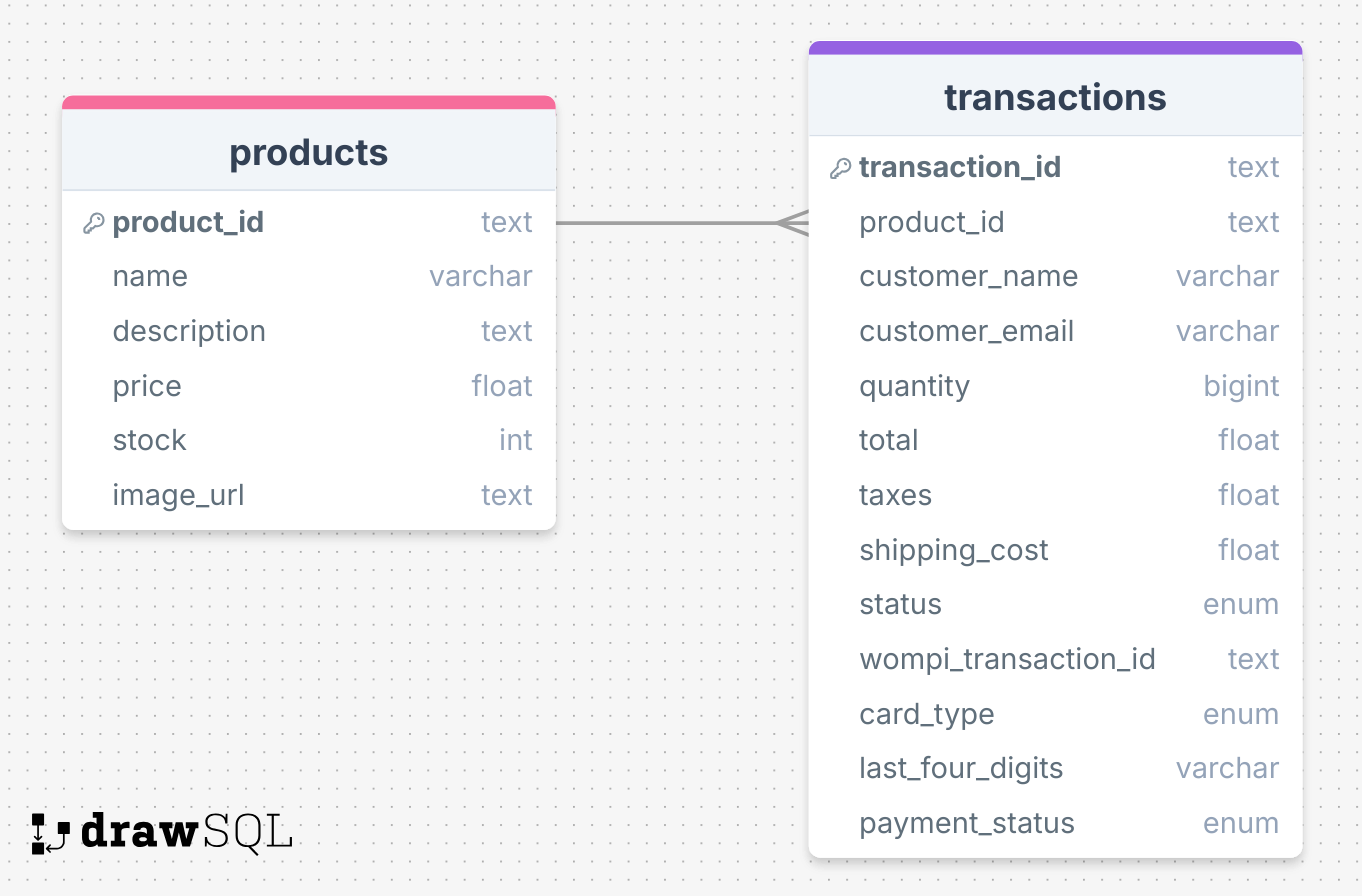
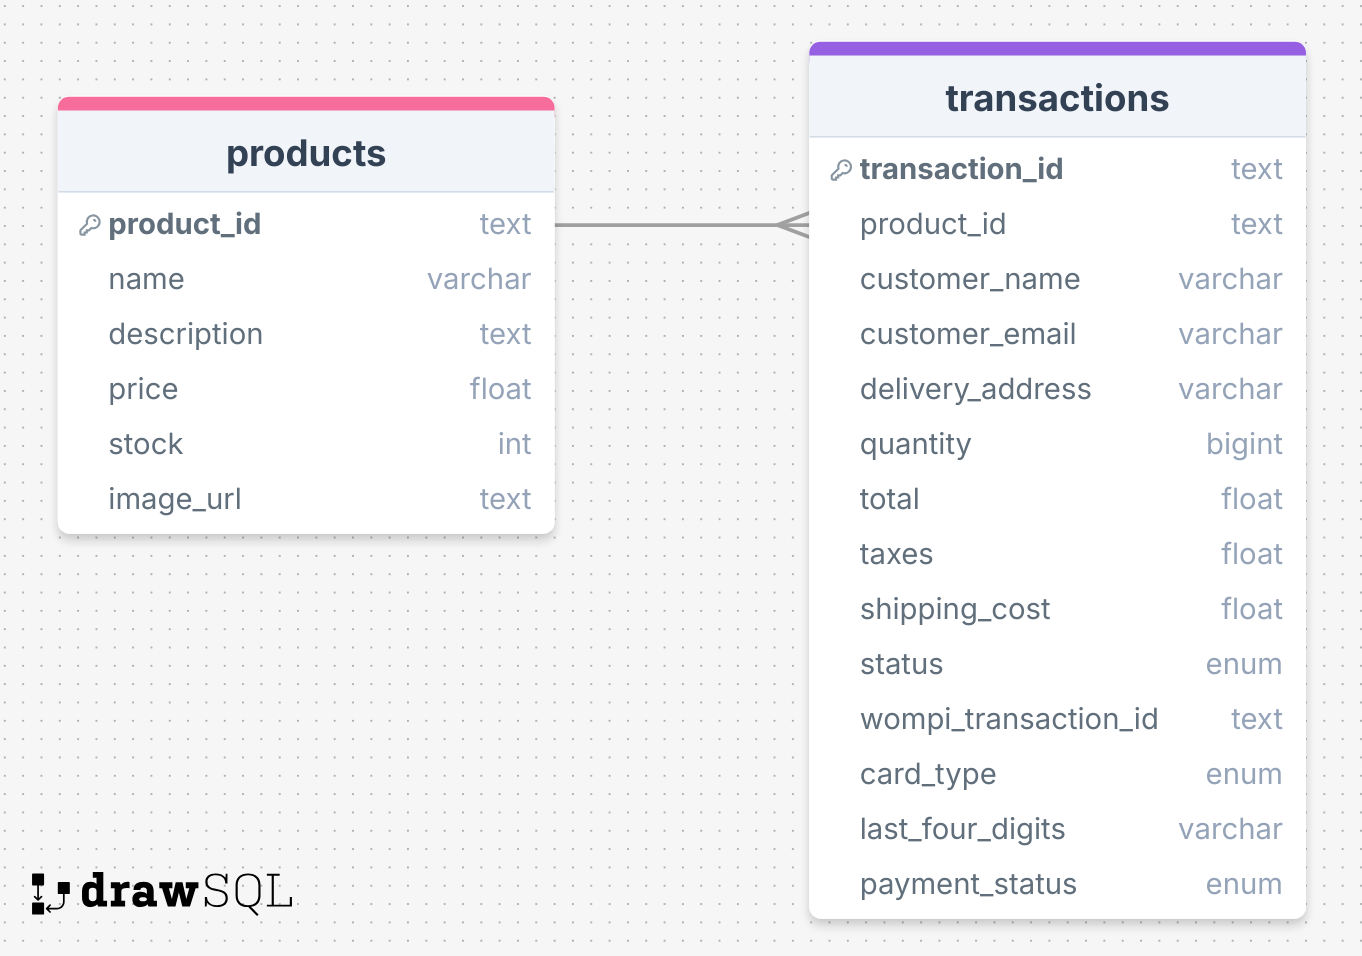
docs: delivery address adition

diff --git a/docs/Database.md b/docs/Database.md
@@ -1,4 +1,4 @@
-#### **Entities**
+### **Entities**
 1. **Products**
     - **Reason for inclusion:** Displays products in the store and tracks inventory after a sale.
     - **Attributes:**
@@ -8,13 +8,14 @@
         - `Price` (Decimal): Price of the product.
         - `Stock` (Integer): Available quantity of the product.
         - `Image_URL` (Text): URL for the product image.
-2. **Transaction**
+2. **Transactions**
     - **Reason for inclusion:** Represents a customer's purchase of a product and integrates with Wompi for payment processing.
     - **Attributes:**
         - `ID` (UUID, Primary Key): Unique identifier for each transaction.
         - `Product_ID` (UUID, Foreign Key -> Products.ID): Reference to the purchased product.
         - `Customer_Name` (String): Full name of the customer making the transaction.
         - `Customer_Email` (String): Email address of the customer making the transaction.
+        - `Delivery_Address` (String): Address where the product will be delivered.
         - `Quantity` (Integer): Number of units of the product being purchased.
         - `Total` (Decimal): Total transaction amount.
         - `Taxes` (Decimal): Taxes applied to the transaction.
@@ -24,20 +25,20 @@
         - `Card_Type` (Enum: Visa, MasterCard, Amex, Discover): Type of card used for the payment.
         - `Last_Four_Digits` (String): Last four digits of the card used.
         - `Payment_Status` (Enum: APPROVED, REJECTED): Status of the payment.
-
 ---
-#### **Relationships**
+### **Relationships**
 1. **Products ↔ Transactions**
     - **Type:** One-to-Many.
     - **Description:** A product can be involved in multiple transactions (e.g., multiple purchases by different customers), but each transaction is tied to a single product.
-    - **Implementation:** This simplifies the relationship, as each transaction involves one product directly, without requiring a Many-to-Many intermediary.
+    - **Implementation:** Each transaction includes a reference to a single product, without requiring a Many-to-Many relationship.
 ---
-#### **Rationale for the Simplified Design**
+### **Rationale for the Updated Design**
 1. **Focused Flow:**
-    - Each transaction corresponds to a single product purchase, aligning directly with the flow where the customer selects a product, proceeds to payment, and completes the purchase.
-2. **Removed Redundancies:**
-    - `Orders` and `OrderDetails` were removed because transactions inherently encapsulate the concept of orders. For the current use case, orders are not necessary.
-3. **Integrated Customer Information:**
-    - Storing `Customer_Name` and `Customer_Email` directly in `Transactions` eliminates the need for a `Customers` table while still capturing essential information.
-4. **Simplified Relationship:**
-    - The One-to-Many relationship between `Products` and `Transactions` directly supports the current business requirement and avoids the complexity of managing multiple products within a single transaction.
+    - Each transaction represents a single product purchase and includes the delivery details, ensuring the entire flow is encapsulated in one table.
+2. **Integrated Delivery Information:**
+    - The `Delivery_Address` field allows capturing and managing delivery-specific details directly within the transaction, aligning with the project requirements.
+3. **Removed Redundancies:**
+    - No additional tables for orders or customers, as all relevant data is stored in `Transactions`.
+4. **Simplified Relationships:**
+    - The One-to-Many relationship between `Products` and `Transactions` remains straightforward and supports the business flow directly.
+---
